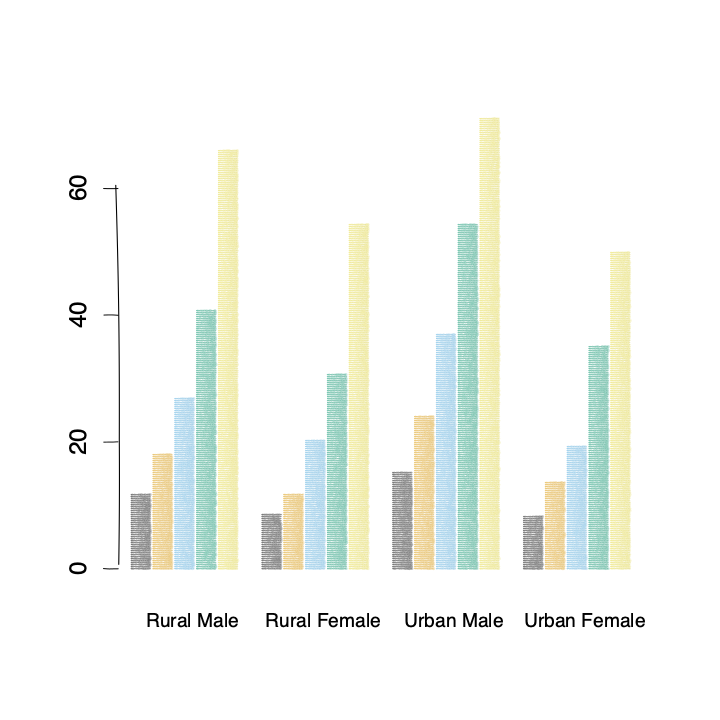
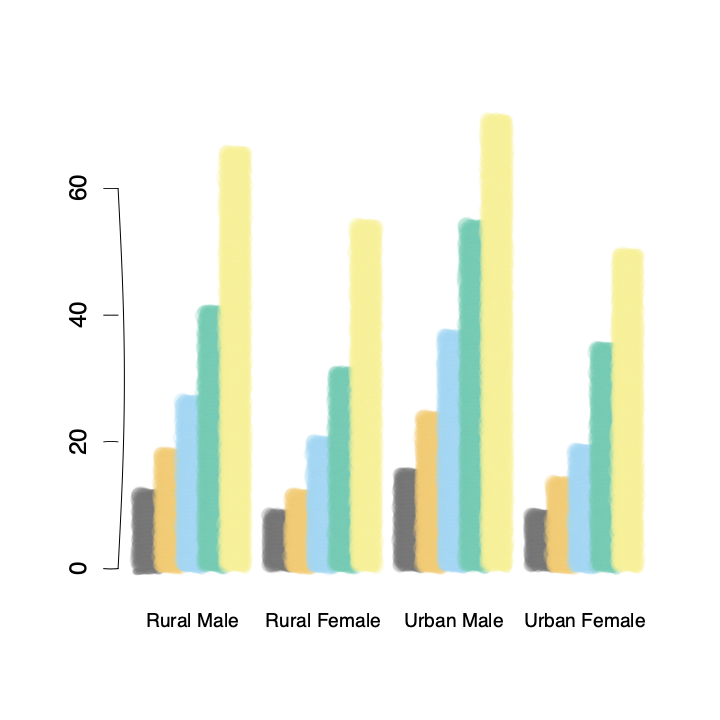
Better README

Changed region(s): [[0.1528, 0.1528, 0.9167, 0.825]]

diff --git a/README.md b/README.md
@@ -12,31 +12,60 @@ sketched way, using brushes from the
 [libmypaint](https://github.com/mypaint/libmypaint) library and
 algorithms for “rough” lines and polygons.
 
-## Installation
-
-You can install the development version of mypaintr from
-[GitHub](https://github.com/) with:
+Installation:
 
 ``` r
 # install.packages("pak")
 pak::pak("hughjonesd/mypaintr")
 ```
 
-## Example
-
 A base R barplot using a custom brush, plus a hand-drawn axis:
 
 ``` r
 library(mypaintr)
 
-set_brush("experimental/bubble")
+set_brush("tanda/acrylic-05-paint")
 barplot(VADeaths, axes = FALSE, 
         beside = TRUE, col = palette.colors(5), border = NA,
         cex.names = 0.8)
 
 set_brush(NULL)
-set_hand(hand())
+set_hand(hand(wobble = 0))
 axis(side = 2, at = seq(0, 60, 20))
 ```
 
 ![](README_files/figure-gfm/unnamed-chunk-2-1.png)<!-- -->
+
+A ggplot using a custom element:
+
+``` r
+library(ggplot2)
+
+set_brush("experimental/bubble")
+ggplot(diamonds) +
+  geom_bar(aes(cut, fill = cut)) +
+  theme_minimal() + 
+  theme(
+    plot.background = element_mypaint_rect(fill = "white"),
+    panel.grid = element_mypaint_line(colour = "grey")
+  )
+```
+
+![](README_files/figure-gfm/unnamed-chunk-3-1.png)<!-- -->
+
+Sketchy lines using the ordinary base R device:
+
+``` r
+
+plot(1:10, 1:10, type = "n", xlab = "", ylab = "", axes = FALSE)
+
+draw_rough_polygons(5 + 3 * sin(2*pi * 1:5/5), 5 + 3 * cos(2*pi * 1:5/5),
+                    border = "darkred", col = "red3", lwd = 2,
+                    hand = hand(multi_stroke = 3),
+                    fill_pattern = crosshatch())
+
+draw_rough_arrows(8, 8.5, 5.5, 5.5, lwd = 2, hand = hand(bow = 0.05))
+text(8, 9, "A pentagon")
+```
+
+![](README_files/figure-gfm/unnamed-chunk-4-1.png)<!-- -->
